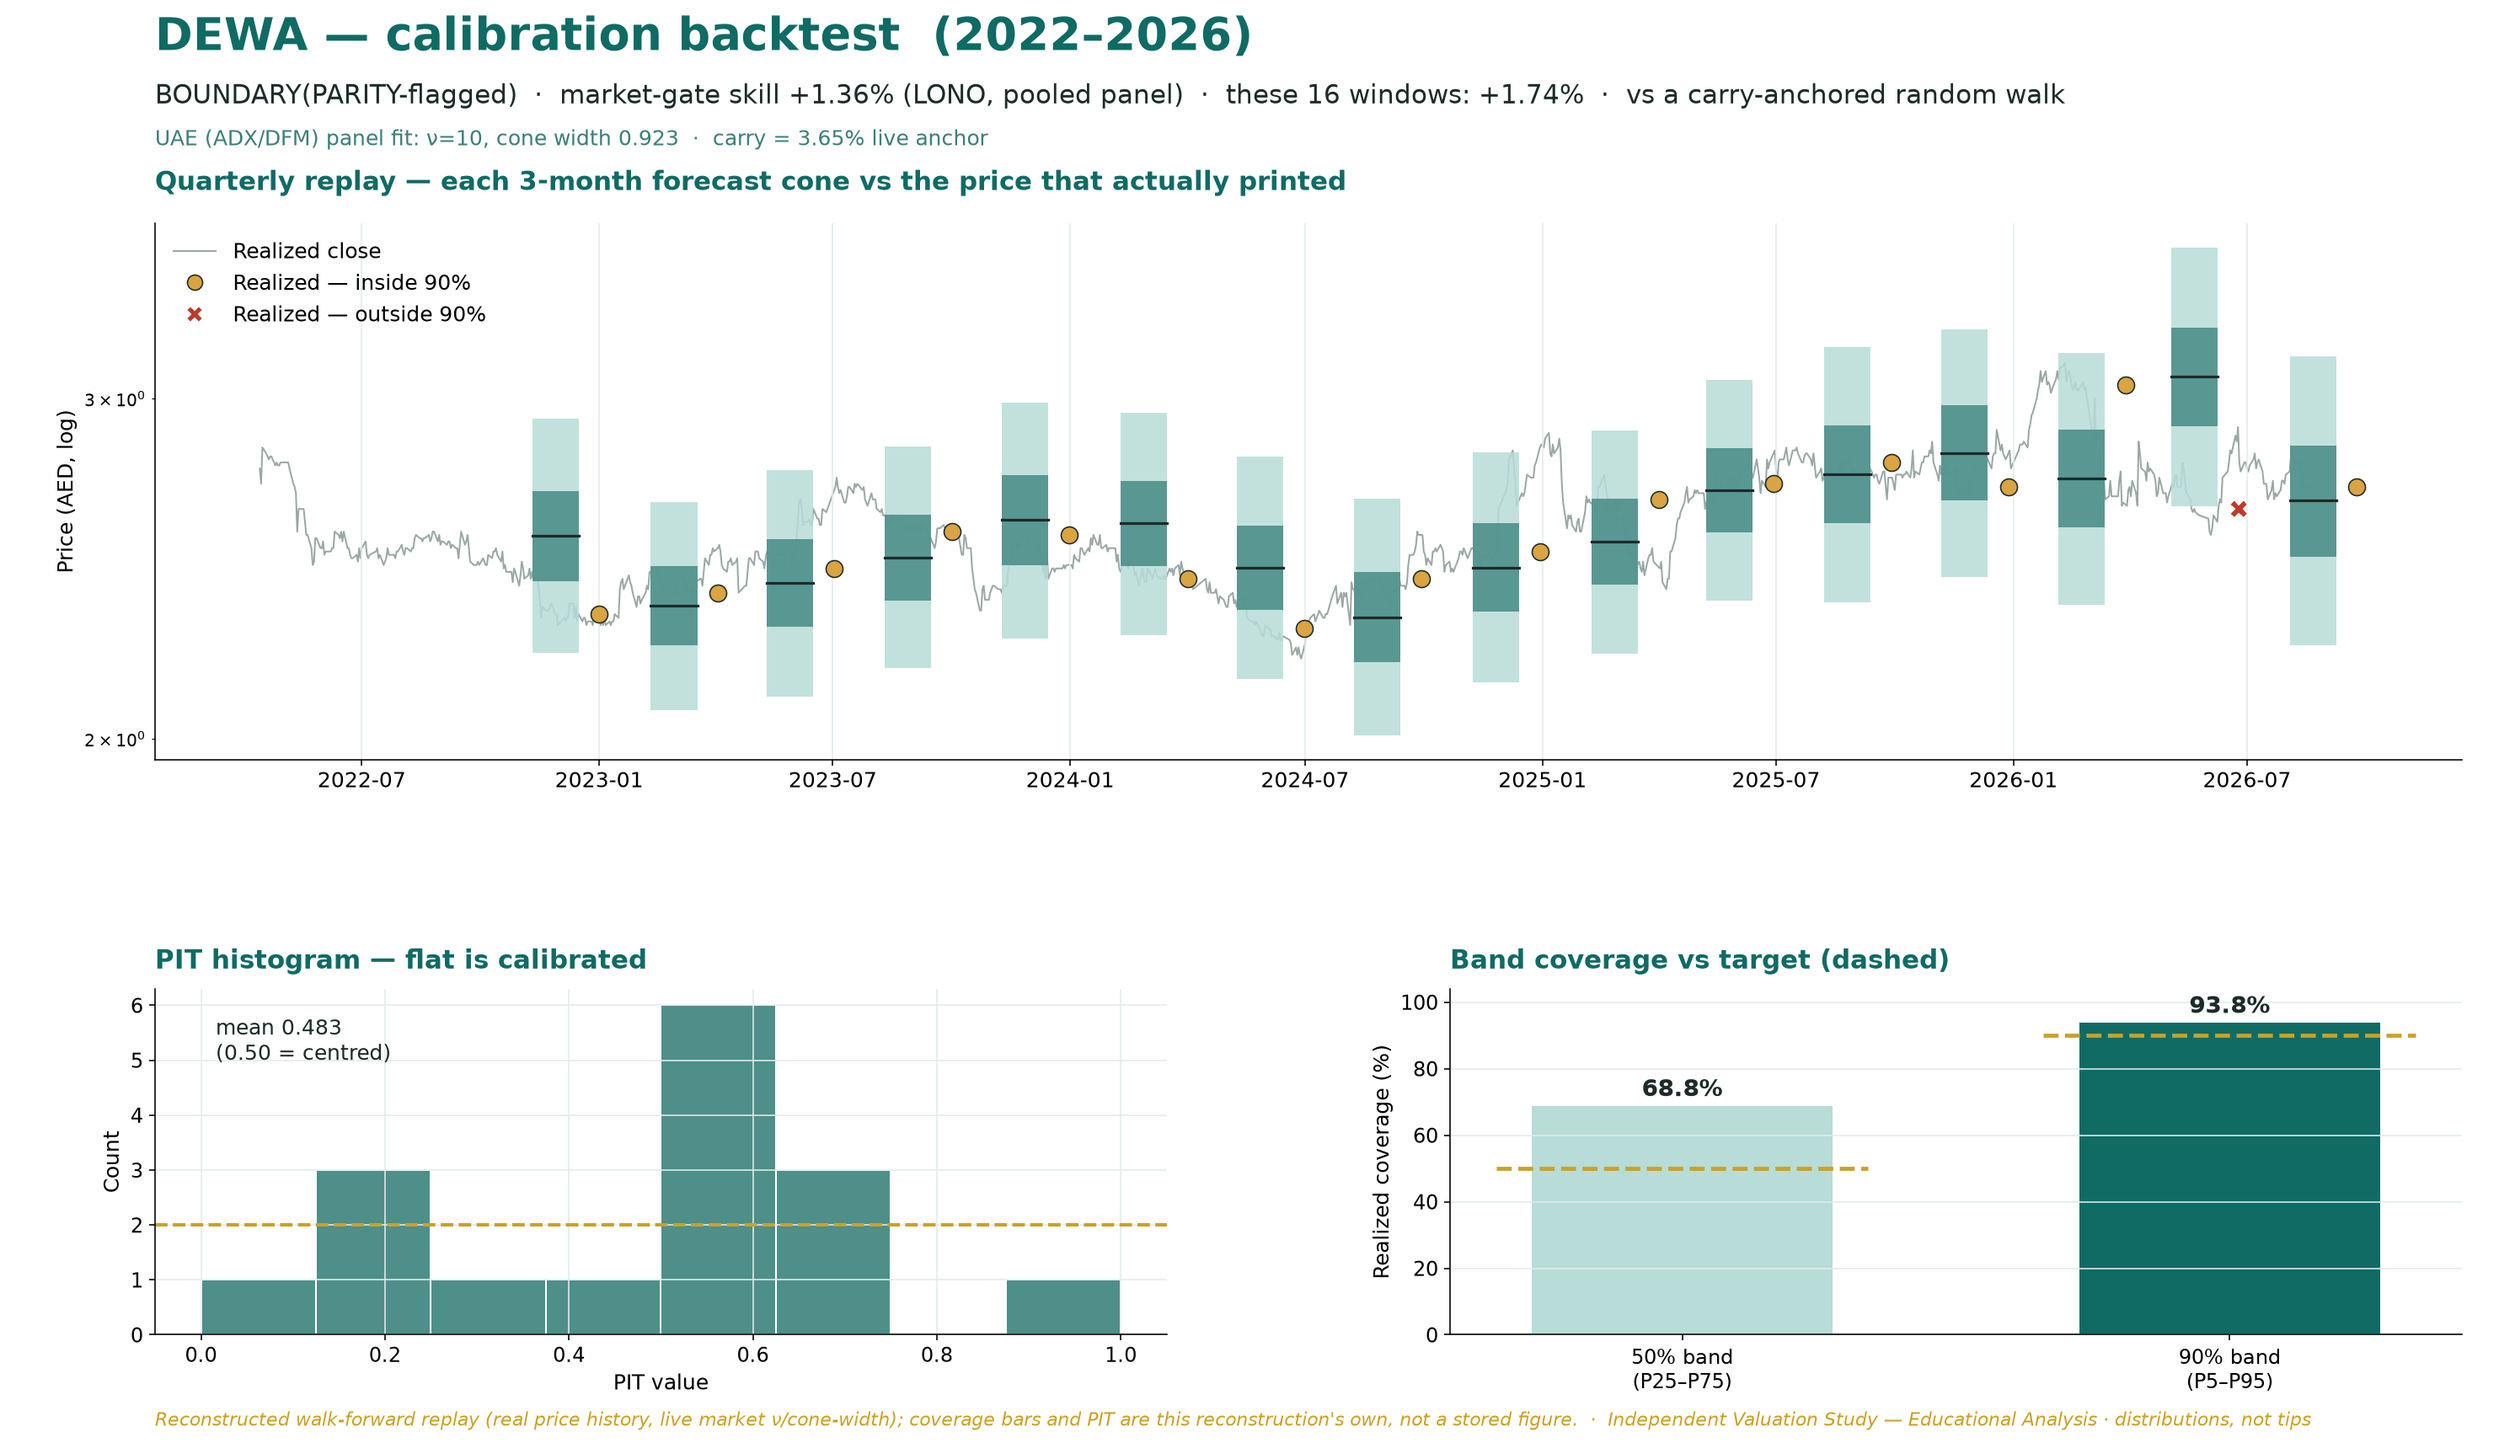
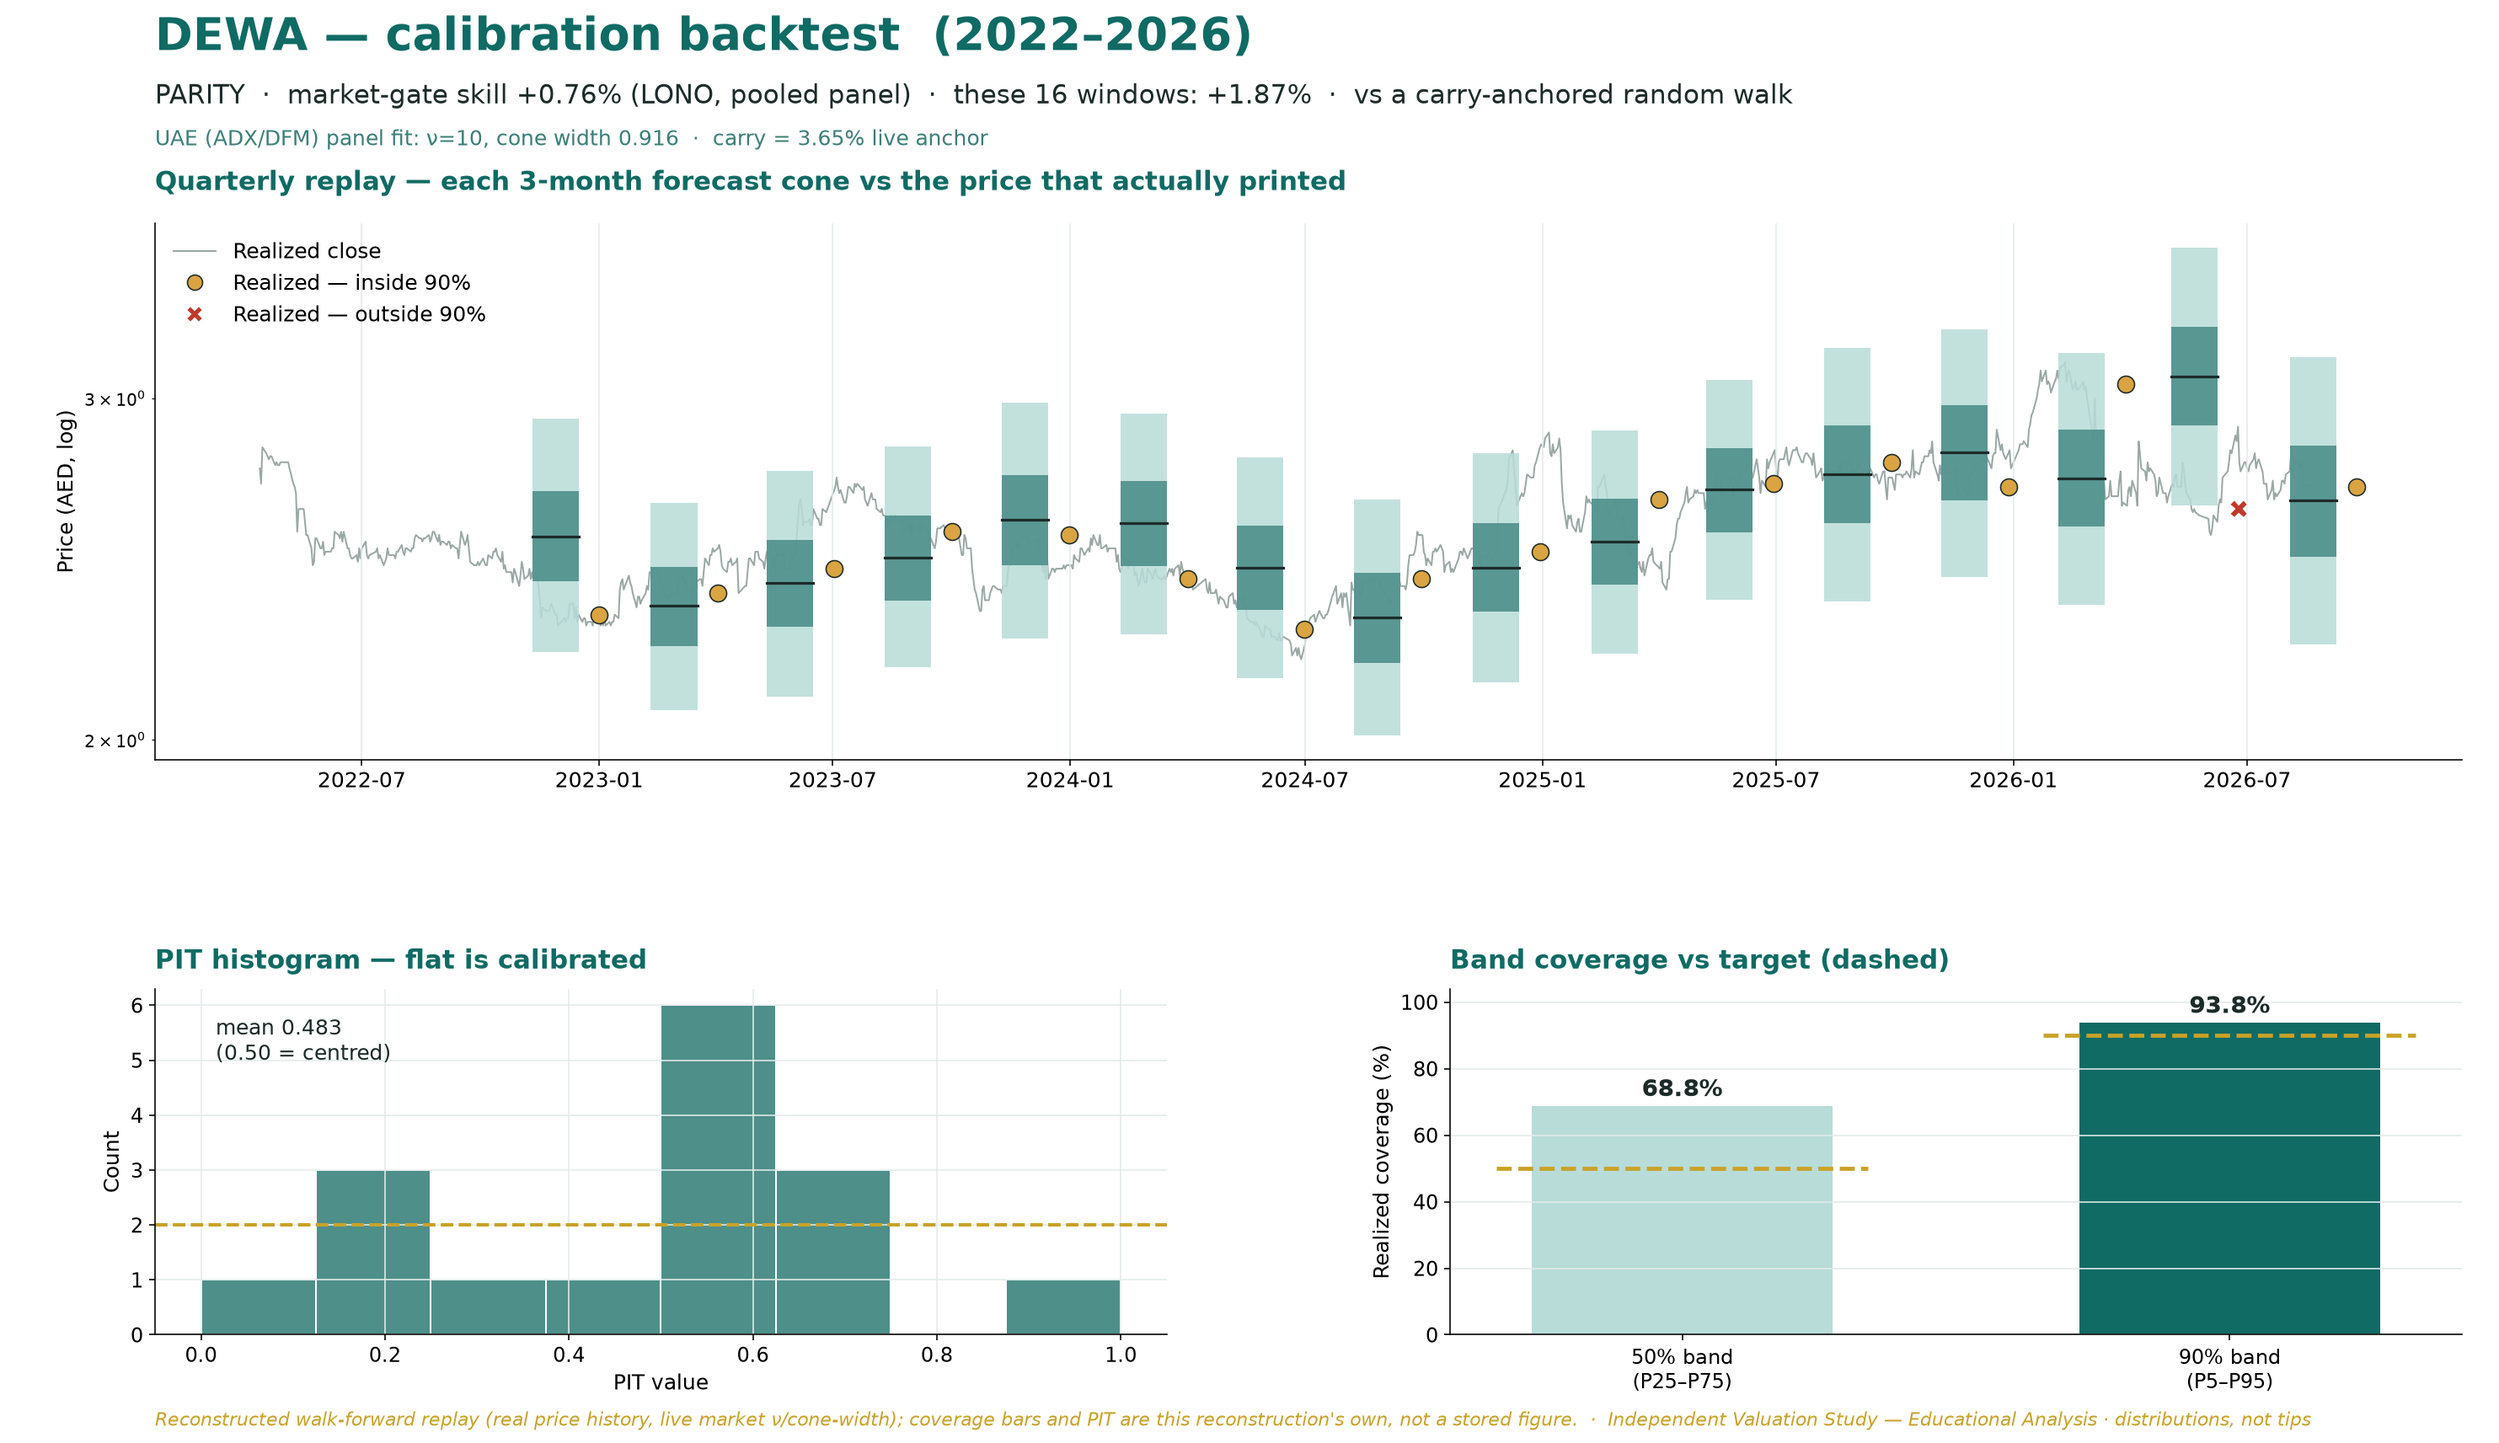
Regenerate the DEWA calibration panel onto the current AE fit (#246)
The AE fit moved after DEWA was rolled forward this morning: width_cal
0.923 -> 0.916 (nu unchanged at 10.0), applied by the pipeline's later
material-change commits. DEWA's published calibration picture was still
drawn on 0.923, so the panel a reader sees was replaying a cone the engine
no longer produces. Same correction already made for AGTHIA (#242) and
BURJEEL (#243).

Regenerated with `python3 engine/metal_backtest.py DEWA` against the
committed fit. The panel moves: chart skill 1.74 -> 1.87 on the tighter
cone. Windows (16), cov50 (68.8%), cov90 (93.8%) and PIT mean (0.483) are
unchanged -- only the cone width the replay is scored against moved.

Calibration-PNG cache-buster in ledger.html bumped 20260824agthia2 ->
20260824dewa1 so a reader holding the old image gets the corrected one.
Token verified unused in the tree and in git history before use.

LEFT ALONE, deliberately: the frozen cycle-2 and cycle-3 LEDGER rows and
the displayed cone. Those were struck together this morning on the fit that
was live at that moment, which is what a forecast record is for -- their
notes correctly say width_cal=0.923 and retro-editing them would rewrite a
published claim. The band move is -0.76%, well inside the 5% materiality
threshold. fair{} and the slider constants untouched as ever.

Claude-Session: https://claude.ai/code/session_01NcHyGASd9HvFbszyfXPtTq

Changed region(s): [[0.062, 0.0619, 0.8065, 0.0928]]

diff --git a/ledger.html b/ledger.html
@@ -771,11 +771,11 @@ tabPanels.innerHTML = `<div class="tab-panel active" id="panel-all">
   ${cohortChartBlock(t, LEDGER.filter(r=>r.instrument===t))}
   ${CAL_UNTESTED.has(t) ? CALIB_UNTESTED_BANNER + `<h3 style="font-size:var(--fs-h3);margin:24px 0 4px">What this forecast IS validated on</h3>
   <p class="muted" style="margin:0 0 12px;max-width:760px">There is no name-level backtest for this stock — it has not been listed long enough to have one. So instead of a backtest it does not have, here is the evidence it actually rests on: why the test cannot be run, what the market panel behind the cone scored, and where this stock sits relative to that panel. Methodology transparency; it does not count toward the live score above.</p>
-  <div class="card bt-fig"><img alt="${t} — why there is no name-level calibration, what the cone is validated on, and how the UAE market panel scored" src="assets/calibration_${t}.png?v=20260824agthia2"></div>` : ``}
+  <div class="card bt-fig"><img alt="${t} — why there is no name-level calibration, what the cone is validated on, and how the UAE market panel scored" src="assets/calibration_${t}.png?v=20260824dewa1"></div>` : ``}
   ${HAS_BACKTEST.has(t) ? `<h3 style="font-size:var(--fs-h3);margin:24px 0 4px">Calibration backtest</h3>
   <p class="muted" style="margin:0 0 12px;max-width:760px">The same model replayed across ${t}’s full usable history — every non-overlapping quarter back to its market’s last structural break. Each quarter’s 3-month forecast cone against the price that actually printed, the PIT histogram (flat = well-calibrated), and how often each band actually held. Where the most recent stretch diverges from the long-run record, the panel says so in red. Methodology validation; it does not count toward the live score above.</p>
   ${CAL_FAIL.has(t) && !BANNER_BAKED.has(t) ? CALIB_FAIL_BANNER : (CAL_MATCH.has(t) ? CALIB_MATCH_BANNER : ``)}
-  <div class="card bt-fig"><img alt="${t} calibration backtest — quarterly cone replay, PIT histogram, and band coverage vs target" src="assets/calibration_${t}.png?v=20260824agthia2"></div>
+  <div class="card bt-fig"><img alt="${t} calibration backtest — quarterly cone replay, PIT histogram, and band coverage vs target" src="assets/calibration_${t}.png?v=20260824dewa1"></div>
   <div style="margin:20px 0 8px;padding-top:20px;border-top:1px solid var(--line,#dce4e2)">
     <p class="muted" style="font-size:var(--fs-small);margin:0 0 10px"><b style="color:var(--ink)">Reading this panel:</b></p>
     <div style="display:grid;grid-template-columns:repeat(auto-fit,minmax(220px,1fr));gap:16px">
